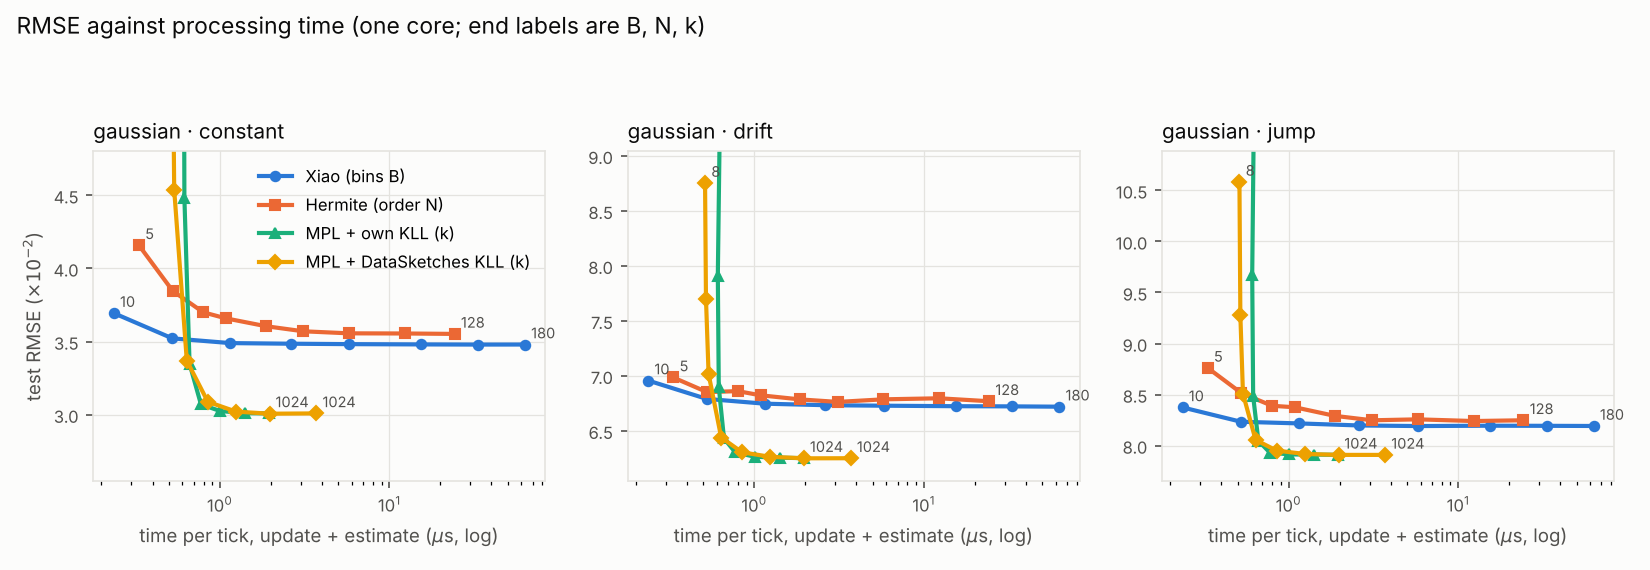
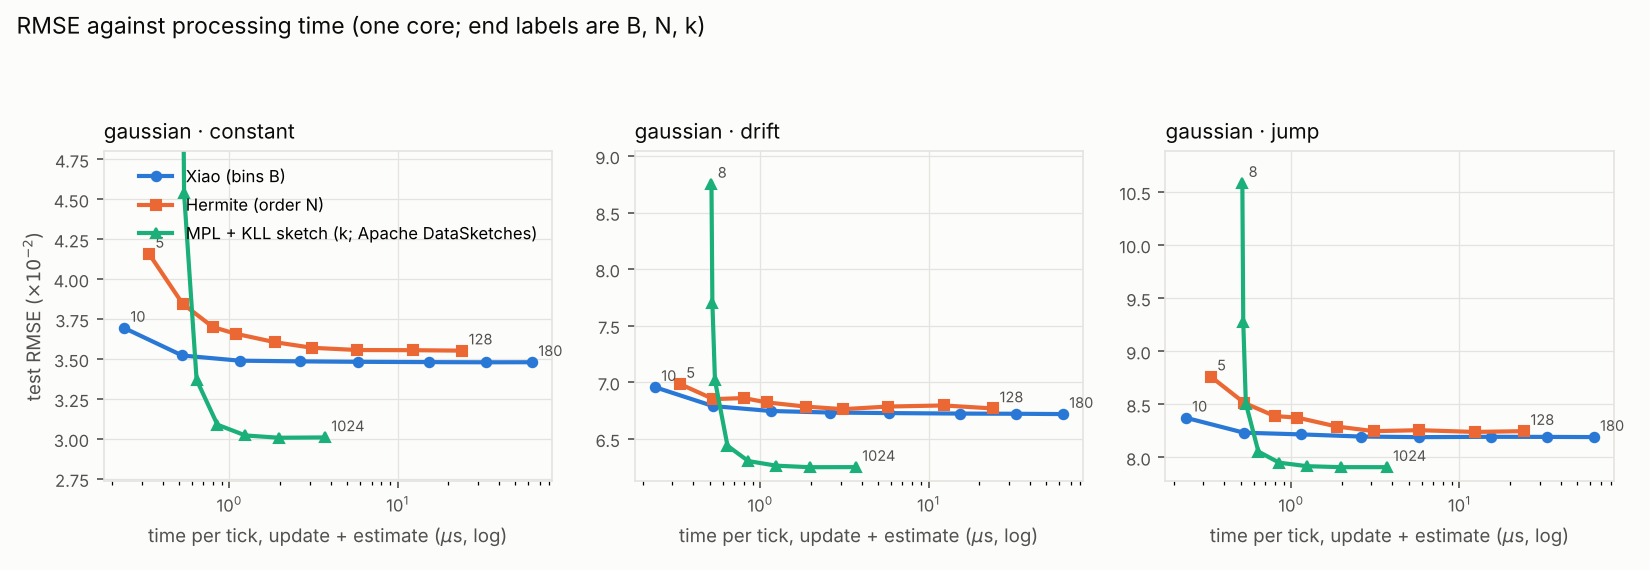
Budget figures: MPL shown with DataSketches KLL only (own KLL dropped from the plots)
Claude-Session: https://claude.ai/code/session_011LH6MHfBJAMQDu7UQqGgRH

diff --git a/experiments/plot_budget.py b/experiments/plot_budget.py
@@ -12,9 +12,9 @@ warnings.filterwarnings("ignore")
 R = "experiments/results/"
 OUT = "notes/thesis/figures/"
 INK, MUTED, GRID, SURF = "#0b0b0b", "#52514e", "#e4e3df", "#fcfcfb"
-COL = {"xiao": "#2a78d6", "hermite": "#eb6834", "mpl_kll": "#1baf7a", "mpl_dskll": "#eda100"}
-LAB = {"xiao": "Xiao (bins B)", "hermite": "Hermite (order N)", "mpl_kll": "MPL + own KLL (k)", "mpl_dskll": "MPL + DataSketches KLL (k)"}
-MK = {"xiao": "o", "hermite": "s", "mpl_kll": "^", "mpl_dskll": "D"}
+COL = {"xiao": "#2a78d6", "hermite": "#eb6834", "mpl_dskll": "#1baf7a"}   # MPL on DataSketches KLL only
+LAB = {"xiao": "Xiao (bins B)", "hermite": "Hermite (order N)", "mpl_kll": "MPL + own KLL (k)", "mpl_dskll": "MPL + KLL sketch (k; Apache DataSketches)"}
+MK = {"xiao": "o", "hermite": "s", "mpl_kll": "^", "mpl_dskll": "^"}
 BUDGETS = [16, 64, 256]
 
 df = pd.read_csv(R + "budget_sweep.csv")
@@ -54,7 +54,7 @@ def fig_memory(fams, out):
                 ax.errorbar(f.peak_bytes / 1024, 100 * f.rmse, yerr=200 * f.se_rmse, color=COL[est],
                             marker=MK[est], ms=4.5, lw=2, capsize=0, label=LAB[est])
             ex = frontier(fam, sc, "mpl_exact")
-            ax.axhline(100 * ex.rmse.iloc[0], color=COL["mpl_kll"], lw=1.2, ls="--",
+            ax.axhline(100 * ex.rmse.iloc[0], color=COL["mpl_dskll"], lw=1.2, ls="--",
                        label="MPL, exact PIT (oracle)")
             ax.set_xscale("log")
             ref = frontier(fam, sc, "xiao").rmse.max()
